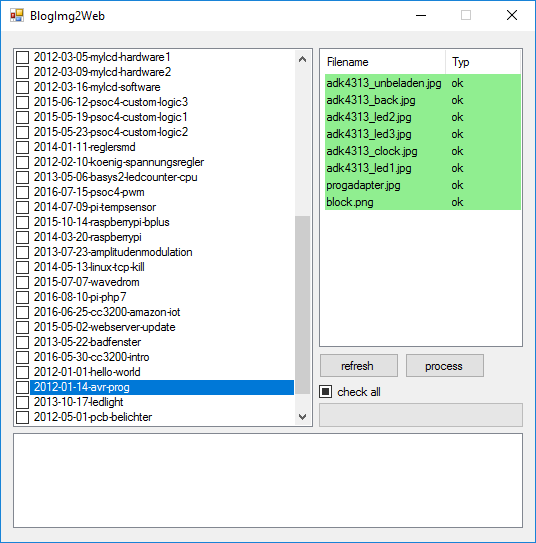
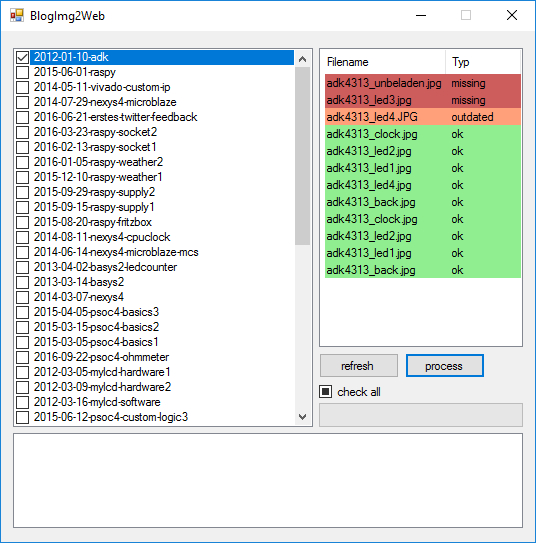
fixed code

Changed region(s): [[0.0299, 0.0884, 0.9851, 0.7956], [0.7463, 0.6483, 0.9254, 0.7072]]

diff --git a/Form1.cs b/Form1.cs
@@ -33,7 +33,8 @@ namespace blogimage {
 
         public frmMain() {
             this.blogposts = new Dictionary<string, DirectoryInfo>();
-            string exepath = System.IO.Path.GetDirectoryName(Application.ExecutablePath);
+            // string exepath = System.IO.Path.GetDirectoryName(Application.ExecutablePath);
+            string exepath = @"G:\user\scripts\windows";
             this.script_path = Path.Combine(exepath, SCRIPTS_FOLDER);
             this.blog_path = Path.Combine(exepath, BLOG_FOLDER);
 
@@ -50,27 +51,27 @@ namespace blogimage {
             // filter only png and jpg
             images = Array.FindAll(images, f => f.Name.ToLower().EndsWith(".jpg") || f.Name.ToLower().EndsWith(".png"));
             resimages = Array.FindAll(resimages, f => f.Name.ToLower().EndsWith(".jpg") || f.Name.ToLower().EndsWith(".png"));
-            
+
+
+            // convert to string only arrays
+            List<string> images_names = new List<string>();
+            List<string> resimages_names = new List<string>();
+            foreach (FileInfo fi in images) {
+                images_names.Add(fi.Name.ToLower());
+            }
+            foreach (FileInfo fi in resimages) {
+                resimages_names.Add(fi.Name.ToLower());
+            }
+
+            // get same
+            var intersect = resimages_names.Intersect(images_names);
+
             if (images.Length != resimages.Length) {
-
-                // convert to string only arrays
-                List<string> images_names = new List<string>();
-                List<string> resimages_names = new List<string>();
-                foreach (FileInfo fi in images) {
-                    images_names.Add(fi.Name.ToLower());
-                }
-                foreach (FileInfo fi in resimages) {
-                    resimages_names.Add(fi.Name.ToLower());
-                }
-
-                // get same
-                var intersect = resimages_names.Intersect(images_names);
-
                 // log missing
-                foreach (string resimage in resimages_names) {                    
-                    if(!intersect.Contains(resimage)) {
+                foreach (string resimage in resimages_names) {
+                    if (!intersect.Contains(resimage)) {
                         messages.Add(String.Format("{0}:{1}", PARSE_MISSING, resimage));
-                    }                    
+                    }
                 }
                 // log excess
                 foreach (string image in images_names) {
@@ -80,18 +81,20 @@ namespace blogimage {
                 }
 
                 valid_images.AddRange(intersect);
-            } else {
-                // lengths match -> compare write time
-                for (var i = 0; i < images.Length; i++) {
-                    FileInfo fi_image = images[i];
-                    FileInfo fi_resimage = resimages[i];
-                    if (fi_resimage.LastWriteTime > fi_image.LastWriteTime) {
-                        messages.Add(String.Format("{0}:{1}", PARSE_OUTDATE, fi_resimage.Name));
-                    } else {
-                        valid_images.Add(fi_image.Name);
-                    }
-                }
             }
+
+            // check dates of intersect
+            // lengths match -> compare write time
+            foreach(string intpost in intersect ) {
+                // find in images and resimages      
+                FileInfo fi_image = images[images_names.IndexOf(intpost)];
+                FileInfo fi_resimage = resimages[resimages_names.IndexOf(intpost)];
+                if (fi_resimage.LastWriteTime > fi_image.LastWriteTime) {
+                    messages.Add(String.Format("{0}:{1}", PARSE_OUTDATE, fi_resimage.Name));
+                } else {
+                    valid_images.Add(fi_image.Name);
+                }
+            }            
 
             // add valid images
             foreach(string image in valid_images) {
@@ -217,7 +220,7 @@ namespace blogimage {
                 details_typemap.Add(PARSE_OK, Color.LightGreen);
                 details_typemap.Add(PARSE_MISSING, Color.IndianRed);
                 details_typemap.Add(PARSE_EXCESS, Color.OrangeRed);
-                details_typemap.Add(PARSE_OUTDATE, Color.LightGreen);
+                details_typemap.Add(PARSE_OUTDATE, Color.LightSalmon);
 
                 lvDetails.Items.Clear();             
                 // get post string
